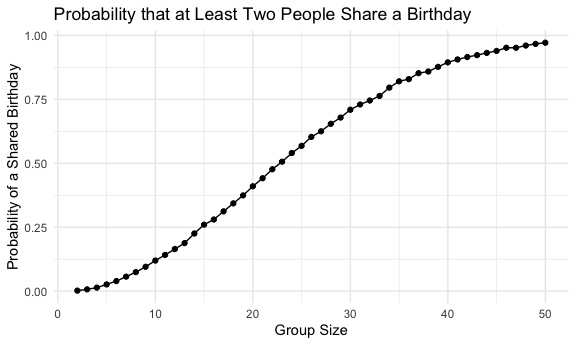
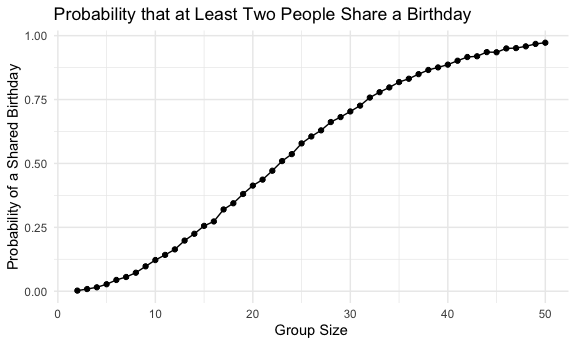
q2 draft

diff --git a/p8105_hw5_nck2132.md b/p8105_hw5_nck2132.md
@@ -35,15 +35,15 @@ birthday_sim_df
     ## # A tibble: 49 × 2
     ##    group_size   prob
     ##         <int>  <dbl>
-    ##  1          2 0.002 
-    ##  2          3 0.007 
-    ##  3          4 0.0137
-    ##  4          5 0.0262
-    ##  5          6 0.0394
-    ##  6          7 0.0566
-    ##  7          8 0.0743
-    ##  8          9 0.0952
-    ##  9         10 0.120 
+    ##  1          2 0.0024
+    ##  2          3 0.0086
+    ##  3          4 0.0154
+    ##  4          5 0.0274
+    ##  5          6 0.0441
+    ##  6          7 0.0557
+    ##  7          8 0.0724
+    ##  8          9 0.0974
+    ##  9         10 0.122 
     ## 10         11 0.142 
     ## # ℹ 39 more rows
 
@@ -66,3 +66,200 @@ Plotting the probability of sharing the same birthday as a function of
 group size is a signmoidal curve. Generally the probability of sharing a
 birthday increases as group size increases peaking at almost 1 or 100%
 when group size is 50.
+
+## Q2
+
+``` r
+full_df =
+  tibble(
+    files = list.files("data/"),
+    path = str_c("data/", files)
+  ) |>
+  mutate(data = purrr::map(path, read_csv)) |> 
+  unnest(data) |>
+  mutate(files = str_remove(files, ".csv")) |>
+  separate(files, into = c("arm_type", "subject_id"), sep = "_") |> 
+  mutate(
+    arm_type = case_match(
+      arm_type,
+      "con" ~ "control",
+      "exp" ~ "experimental"
+    )) |> 
+  pivot_longer(
+  starts_with("week_"),
+  names_to = "week",
+  names_prefix = "week_",
+  values_to = "observation"
+)
+```
+
+    ## Rows: 1 Columns: 8
+    ## ── Column specification ────────────────────────────────────────────────────────
+    ## Delimiter: ","
+    ## dbl (8): week_1, week_2, week_3, week_4, week_5, week_6, week_7, week_8
+    ## 
+    ## ℹ Use `spec()` to retrieve the full column specification for this data.
+    ## ℹ Specify the column types or set `show_col_types = FALSE` to quiet this message.
+    ## Rows: 1 Columns: 8
+    ## ── Column specification ────────────────────────────────────────────────────────
+    ## Delimiter: ","
+    ## dbl (8): week_1, week_2, week_3, week_4, week_5, week_6, week_7, week_8
+    ## 
+    ## ℹ Use `spec()` to retrieve the full column specification for this data.
+    ## ℹ Specify the column types or set `show_col_types = FALSE` to quiet this message.
+    ## Rows: 1 Columns: 8
+    ## ── Column specification ────────────────────────────────────────────────────────
+    ## Delimiter: ","
+    ## dbl (8): week_1, week_2, week_3, week_4, week_5, week_6, week_7, week_8
+    ## 
+    ## ℹ Use `spec()` to retrieve the full column specification for this data.
+    ## ℹ Specify the column types or set `show_col_types = FALSE` to quiet this message.
+    ## Rows: 1 Columns: 8
+    ## ── Column specification ────────────────────────────────────────────────────────
+    ## Delimiter: ","
+    ## dbl (8): week_1, week_2, week_3, week_4, week_5, week_6, week_7, week_8
+    ## 
+    ## ℹ Use `spec()` to retrieve the full column specification for this data.
+    ## ℹ Specify the column types or set `show_col_types = FALSE` to quiet this message.
+    ## Rows: 1 Columns: 8
+    ## ── Column specification ────────────────────────────────────────────────────────
+    ## Delimiter: ","
+    ## dbl (8): week_1, week_2, week_3, week_4, week_5, week_6, week_7, week_8
+    ## 
+    ## ℹ Use `spec()` to retrieve the full column specification for this data.
+    ## ℹ Specify the column types or set `show_col_types = FALSE` to quiet this message.
+    ## Rows: 1 Columns: 8
+    ## ── Column specification ────────────────────────────────────────────────────────
+    ## Delimiter: ","
+    ## dbl (8): week_1, week_2, week_3, week_4, week_5, week_6, week_7, week_8
+    ## 
+    ## ℹ Use `spec()` to retrieve the full column specification for this data.
+    ## ℹ Specify the column types or set `show_col_types = FALSE` to quiet this message.
+    ## Rows: 1 Columns: 8
+    ## ── Column specification ────────────────────────────────────────────────────────
+    ## Delimiter: ","
+    ## dbl (8): week_1, week_2, week_3, week_4, week_5, week_6, week_7, week_8
+    ## 
+    ## ℹ Use `spec()` to retrieve the full column specification for this data.
+    ## ℹ Specify the column types or set `show_col_types = FALSE` to quiet this message.
+    ## Rows: 1 Columns: 8
+    ## ── Column specification ────────────────────────────────────────────────────────
+    ## Delimiter: ","
+    ## dbl (8): week_1, week_2, week_3, week_4, week_5, week_6, week_7, week_8
+    ## 
+    ## ℹ Use `spec()` to retrieve the full column specification for this data.
+    ## ℹ Specify the column types or set `show_col_types = FALSE` to quiet this message.
+    ## Rows: 1 Columns: 8
+    ## ── Column specification ────────────────────────────────────────────────────────
+    ## Delimiter: ","
+    ## dbl (8): week_1, week_2, week_3, week_4, week_5, week_6, week_7, week_8
+    ## 
+    ## ℹ Use `spec()` to retrieve the full column specification for this data.
+    ## ℹ Specify the column types or set `show_col_types = FALSE` to quiet this message.
+    ## Rows: 1 Columns: 8
+    ## ── Column specification ────────────────────────────────────────────────────────
+    ## Delimiter: ","
+    ## dbl (8): week_1, week_2, week_3, week_4, week_5, week_6, week_7, week_8
+    ## 
+    ## ℹ Use `spec()` to retrieve the full column specification for this data.
+    ## ℹ Specify the column types or set `show_col_types = FALSE` to quiet this message.
+    ## Rows: 1 Columns: 8
+    ## ── Column specification ────────────────────────────────────────────────────────
+    ## Delimiter: ","
+    ## dbl (8): week_1, week_2, week_3, week_4, week_5, week_6, week_7, week_8
+    ## 
+    ## ℹ Use `spec()` to retrieve the full column specification for this data.
+    ## ℹ Specify the column types or set `show_col_types = FALSE` to quiet this message.
+    ## Rows: 1 Columns: 8
+    ## ── Column specification ────────────────────────────────────────────────────────
+    ## Delimiter: ","
+    ## dbl (8): week_1, week_2, week_3, week_4, week_5, week_6, week_7, week_8
+    ## 
+    ## ℹ Use `spec()` to retrieve the full column specification for this data.
+    ## ℹ Specify the column types or set `show_col_types = FALSE` to quiet this message.
+    ## Rows: 1 Columns: 8
+    ## ── Column specification ────────────────────────────────────────────────────────
+    ## Delimiter: ","
+    ## dbl (8): week_1, week_2, week_3, week_4, week_5, week_6, week_7, week_8
+    ## 
+    ## ℹ Use `spec()` to retrieve the full column specification for this data.
+    ## ℹ Specify the column types or set `show_col_types = FALSE` to quiet this message.
+    ## Rows: 1 Columns: 8
+    ## ── Column specification ────────────────────────────────────────────────────────
+    ## Delimiter: ","
+    ## dbl (8): week_1, week_2, week_3, week_4, week_5, week_6, week_7, week_8
+    ## 
+    ## ℹ Use `spec()` to retrieve the full column specification for this data.
+    ## ℹ Specify the column types or set `show_col_types = FALSE` to quiet this message.
+    ## Rows: 1 Columns: 8
+    ## ── Column specification ────────────────────────────────────────────────────────
+    ## Delimiter: ","
+    ## dbl (8): week_1, week_2, week_3, week_4, week_5, week_6, week_7, week_8
+    ## 
+    ## ℹ Use `spec()` to retrieve the full column specification for this data.
+    ## ℹ Specify the column types or set `show_col_types = FALSE` to quiet this message.
+    ## Rows: 1 Columns: 8
+    ## ── Column specification ────────────────────────────────────────────────────────
+    ## Delimiter: ","
+    ## dbl (8): week_1, week_2, week_3, week_4, week_5, week_6, week_7, week_8
+    ## 
+    ## ℹ Use `spec()` to retrieve the full column specification for this data.
+    ## ℹ Specify the column types or set `show_col_types = FALSE` to quiet this message.
+    ## Rows: 1 Columns: 8
+    ## ── Column specification ────────────────────────────────────────────────────────
+    ## Delimiter: ","
+    ## dbl (8): week_1, week_2, week_3, week_4, week_5, week_6, week_7, week_8
+    ## 
+    ## ℹ Use `spec()` to retrieve the full column specification for this data.
+    ## ℹ Specify the column types or set `show_col_types = FALSE` to quiet this message.
+    ## Rows: 1 Columns: 8
+    ## ── Column specification ────────────────────────────────────────────────────────
+    ## Delimiter: ","
+    ## dbl (8): week_1, week_2, week_3, week_4, week_5, week_6, week_7, week_8
+    ## 
+    ## ℹ Use `spec()` to retrieve the full column specification for this data.
+    ## ℹ Specify the column types or set `show_col_types = FALSE` to quiet this message.
+    ## Rows: 1 Columns: 8
+    ## ── Column specification ────────────────────────────────────────────────────────
+    ## Delimiter: ","
+    ## dbl (8): week_1, week_2, week_3, week_4, week_5, week_6, week_7, week_8
+    ## 
+    ## ℹ Use `spec()` to retrieve the full column specification for this data.
+    ## ℹ Specify the column types or set `show_col_types = FALSE` to quiet this message.
+    ## Rows: 1 Columns: 8
+    ## ── Column specification ────────────────────────────────────────────────────────
+    ## Delimiter: ","
+    ## dbl (8): week_1, week_2, week_3, week_4, week_5, week_6, week_7, week_8
+    ## 
+    ## ℹ Use `spec()` to retrieve the full column specification for this data.
+    ## ℹ Specify the column types or set `show_col_types = FALSE` to quiet this message.
+
+    ## Warning: There was 1 warning in `mutate()`.
+    ## ℹ In argument: `arm_type = case_match(arm_type, "con" ~ "control", "exp" ~
+    ##   "experimental")`.
+    ## Caused by warning:
+    ## ! `case_match()` was deprecated in dplyr 1.2.0.
+    ## ℹ Please use `recode_values()` instead.
+
+Plot
+
+``` r
+full_df |>  
+  ggplot(aes(x = week, y = observation, group = arm_type, color = arm_type)) + 
+  geom_point() + 
+  geom_path() + 
+  facet_grid(~arm_type) +
+labs(title = "Observations over 8 Weeks by Study Arm")
+```
+
+<img src="p8105_hw5_nck2132_files/figure-gfm/unnamed-chunk-5-1.png" alt="" width="90%" />
+
+Based on the two graphs observations in the control arm appear to stay
+relatively constant over the 8 weeks and the range of data is between
+-2.5 and 5.0. In comparison, observations in the experimental arm
+increase over the 8 week period. The start of the data range at week 1
+is -1.25 to 3.75 but by week 8 this range shifts upwards to 2.5 to 7.5.
+This highlights how observational values increase over the 8 week period
+in the experimental arm where as is in the control arm they stay
+relatively consistent over time, which potentially suggests experimental
+treatment the trend increase in observations.
